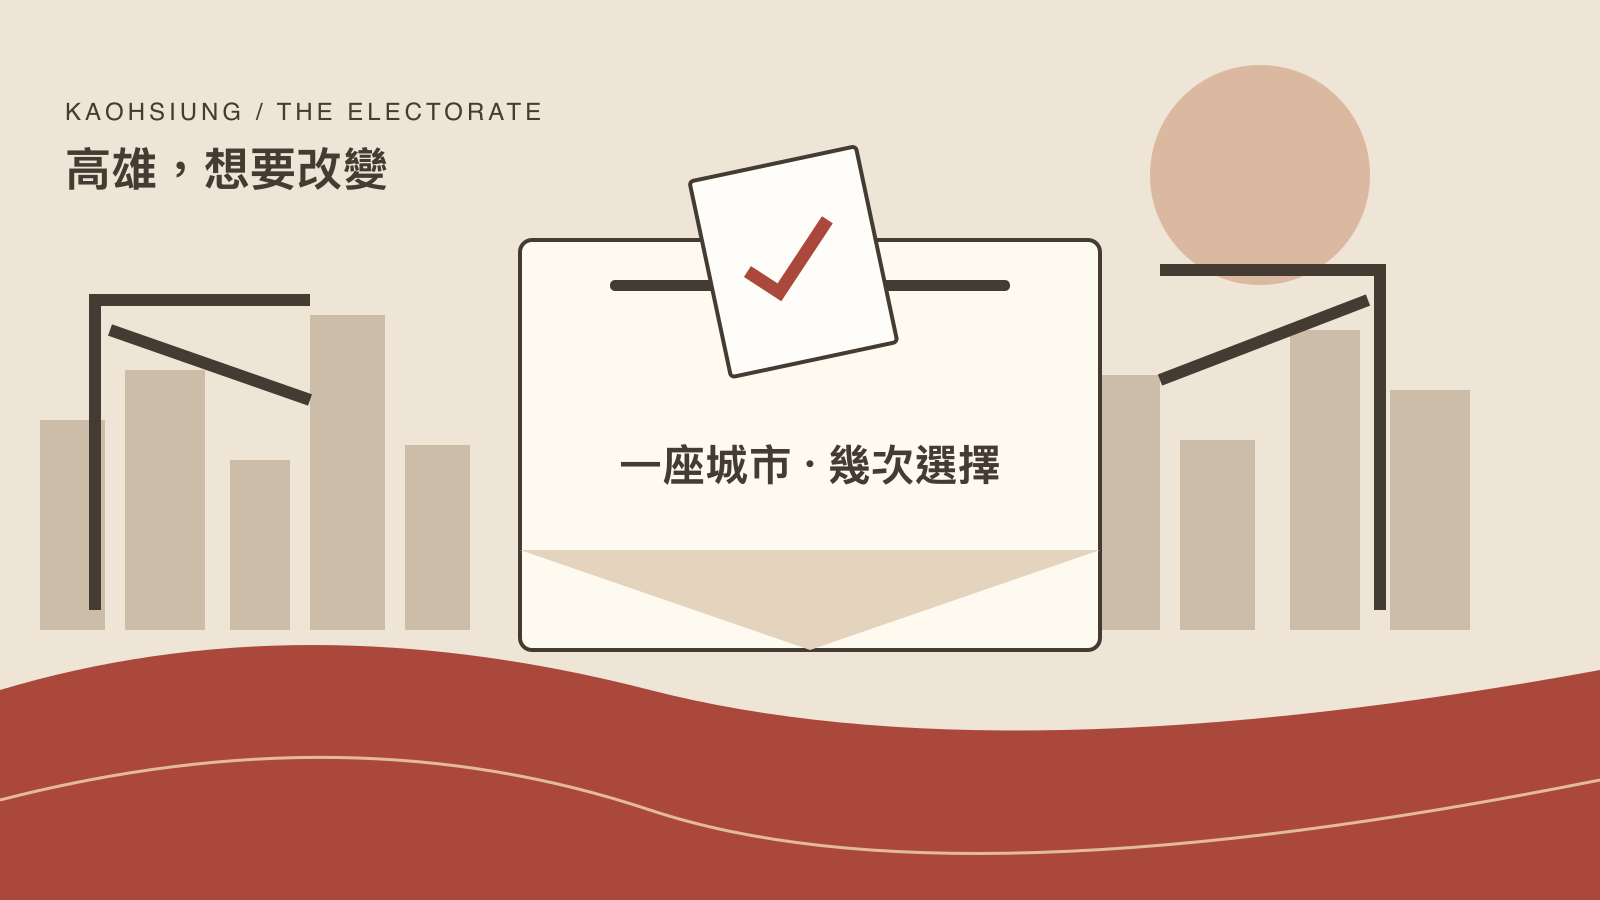
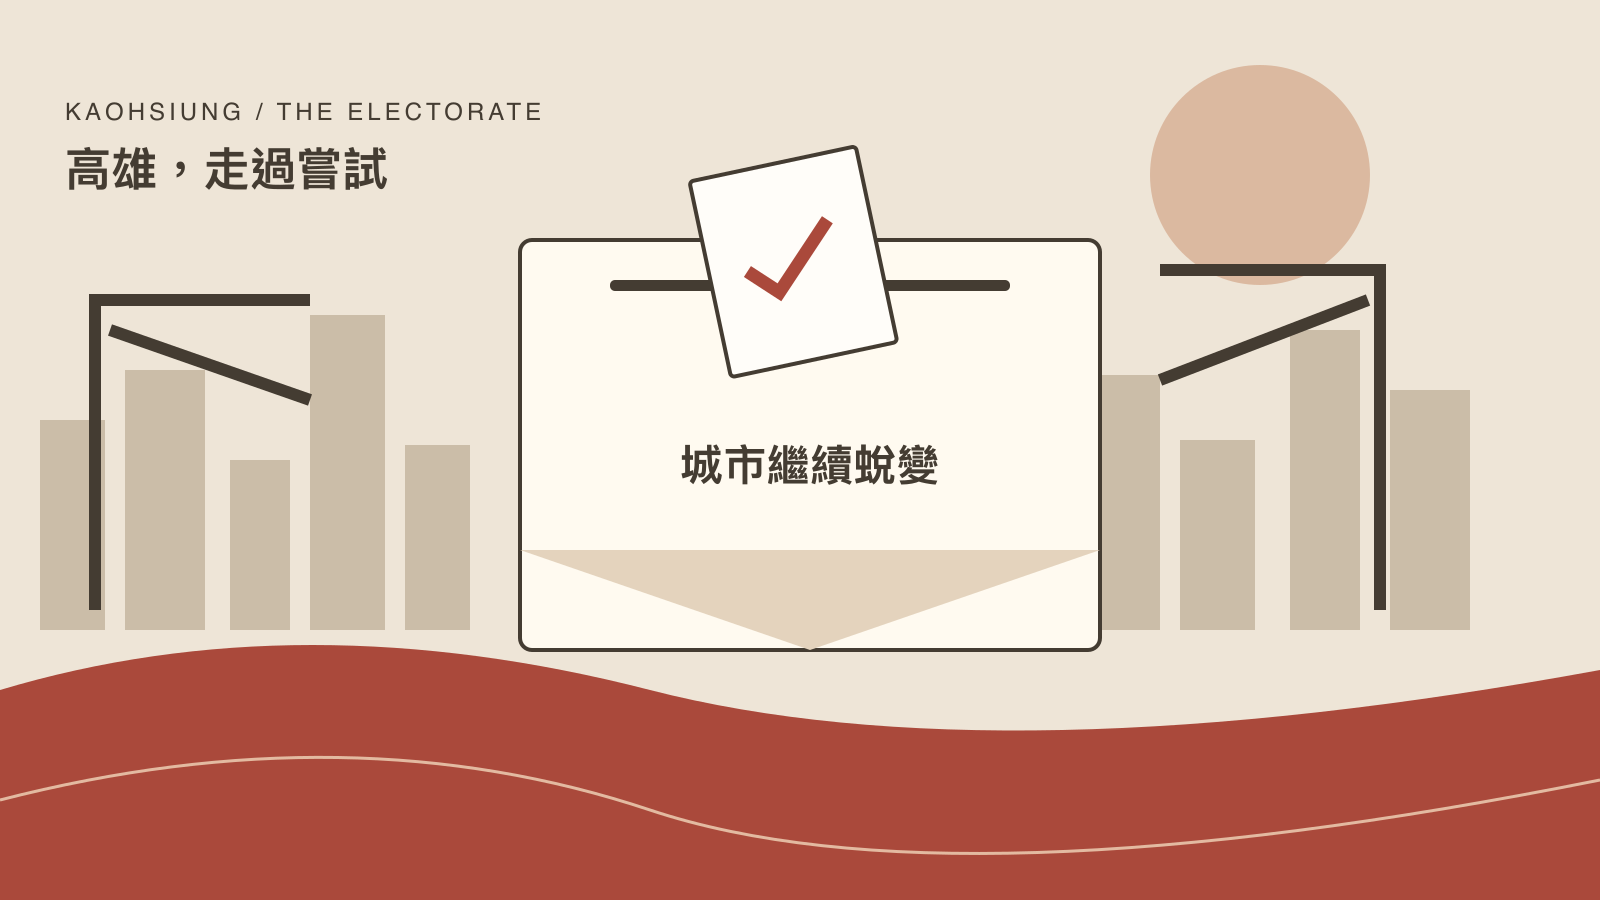
Refine Kaohsiung headline and cover around past choices

Changed region(s): [[0.375, 0.4978, 0.625, 0.56], [0.125, 0.1556, 0.25, 0.2178]]

diff --git a/kaohsiung-electorate.html b/kaohsiung-electorate.html
@@ -1,19 +1,19 @@
 <!doctype html>
 <html lang="zh-Hant"><head>
 <meta charset="utf-8"><meta name="viewport" content="width=device-width,initial-scale=1">
-<title>高雄｜想要改變的城市，選票怎麼走？｜Cocoa.Cool</title>
-<meta name="description" content="高雄曾選擇換人做做看，也曾投票讓市長提前離開。從38區的歷次選票，看一座城市如何在市長、總統與罷免之間，尋找自己的方向。">
+<title>高雄｜走過嘗試，城市繼續蛻變｜Cocoa.Cool</title>
+<meta name="description" content="高雄曾嘗試不同的政治選擇，經歷罷免與重新選舉後，再由民進黨執政。從38區的歷次選票，回看這座城市走過的轉折。">
 <meta name="robots" content="index,follow"><link rel="canonical" href="https://www.thecocoa.cool/kaohsiung-electorate.html">
 <meta property="og:type" content="article"><meta property="og:locale" content="zh_TW"><meta property="og:site_name" content="Cocoa.Cool">
-<meta property="og:title" content="高雄｜想要改變的城市，選票怎麼走？｜Cocoa.Cool"><meta property="og:description" content="高雄曾選擇換人做做看，也曾投票讓市長提前離開。從38區的歷次選票，看一座城市如何在市長、總統與罷免之間，尋找自己的方向。"><meta property="og:url" content="https://www.thecocoa.cool/kaohsiung-electorate.html"><meta property="og:image" content="https://www.thecocoa.cool/assets/kaohsiung-electorate-cover.png?v=822b7fcd83"><meta property="og:image:width" content="1600"><meta property="og:image:height" content="900"><meta property="og:image:alt" content="暖米白與磚紅的高雄港灣選票概念圖">
-<meta name="twitter:card" content="summary_large_image"><meta name="twitter:title" content="高雄｜想要改變的城市，選票怎麼走？｜Cocoa.Cool"><meta name="twitter:description" content="高雄曾選擇換人做做看，也曾投票讓市長提前離開。從38區的歷次選票，看一座城市如何在市長、總統與罷免之間，尋找自己的方向。"><meta name="twitter:image" content="https://www.thecocoa.cool/assets/kaohsiung-electorate-cover.png?v=822b7fcd83">
-<script type="application/ld+json">{"@context":"https://schema.org","@type":"Article","headline":"高雄｜想要改變的城市，選票怎麼走？","description":"高雄曾選擇換人做做看，也曾投票讓市長提前離開。從38區的歷次選票，看一座城市如何在市長、總統與罷免之間，尋找自己的方向。","url":"https://www.thecocoa.cool/kaohsiung-electorate.html","mainEntityOfPage":"https://www.thecocoa.cool/kaohsiung-electorate.html","image":"https://www.thecocoa.cool/assets/kaohsiung-electorate-cover.png?v=822b7fcd83","inLanguage":"zh-Hant-TW","datePublished":"2026-10-02","dateModified":"2026-10-05","publisher":{"@type":"Organization","name":"Cocoa.Cool","url":"https://www.thecocoa.cool/"}}</script>
+<meta property="og:title" content="高雄｜走過嘗試，城市繼續蛻變｜Cocoa.Cool"><meta property="og:description" content="高雄曾嘗試不同的政治選擇，經歷罷免與重新選舉後，再由民進黨執政。從38區的歷次選票，回看這座城市走過的轉折。"><meta property="og:url" content="https://www.thecocoa.cool/kaohsiung-electorate.html"><meta property="og:image" content="https://www.thecocoa.cool/assets/kaohsiung-electorate-cover.png?v=830461caad"><meta property="og:image:width" content="1600"><meta property="og:image:height" content="900"><meta property="og:image:alt" content="暖米白與磚紅的高雄港灣選票概念圖">
+<meta name="twitter:card" content="summary_large_image"><meta name="twitter:title" content="高雄｜走過嘗試，城市繼續蛻變｜Cocoa.Cool"><meta name="twitter:description" content="高雄曾嘗試不同的政治選擇，經歷罷免與重新選舉後，再由民進黨執政。從38區的歷次選票，回看這座城市走過的轉折。"><meta name="twitter:image" content="https://www.thecocoa.cool/assets/kaohsiung-electorate-cover.png?v=830461caad">
+<script type="application/ld+json">{"@context":"https://schema.org","@type":"Article","headline":"高雄｜走過嘗試，城市繼續蛻變","description":"高雄曾嘗試不同的政治選擇，經歷罷免與重新選舉後，再由民進黨執政。從38區的歷次選票，回看這座城市走過的轉折。","url":"https://www.thecocoa.cool/kaohsiung-electorate.html","mainEntityOfPage":"https://www.thecocoa.cool/kaohsiung-electorate.html","image":"https://www.thecocoa.cool/assets/kaohsiung-electorate-cover.png?v=830461caad","inLanguage":"zh-Hant-TW","datePublished":"2026-10-02","dateModified":"2026-10-05","publisher":{"@type":"Organization","name":"Cocoa.Cool","url":"https://www.thecocoa.cool/"}}</script>
 <link rel="stylesheet" href="kaohsiung-electorate.css?v=20261004"><script src="analytics.js" defer></script><script type="module" src="kaohsiung-electorate.js"></script>
 </head><body>
 <nav><a href="index.html">Cocoa.Cool ↗</a><span>資料互動專題 / 2026.10.02</span></nav>
-<main><header class="hero"><p class="eyebrow">KAOHSIUNG / A CITY LOOKING FOR CHANGE</p><h1>高雄｜想要改變的城市，<br><span>選票怎麼走？</span></h1>
-<figure class="electorate-cover"><img src="assets/kaohsiung-electorate-cover.svg?v=822b7fcd83" width="1600" height="900" alt="暖米白與磚紅的高雄港灣概念插畫" fetchpriority="high"><figcaption>一座城市，幾次選擇｜概念插畫，非實際選票比例。</figcaption></figure>
-<div class="intro"><p>換一個人，城市會不會更好？<br>高雄曾經試過，也重新選過。</p><p>2018 年，韓國瑜在高雄當選市長。不到兩年，市民又透過罷免，讓他提前離開。這段經歷讓「高雄是綠營票倉」變得不夠用了：一座城市可以選擇換人，也可以決定再換一次。把這幾年的選票攤開來看，我們想追問的是，高雄選民願意嘗試什麼樣的改變，而各個地方，是否有不同的答案？</p></div>
+<main><header class="hero"><p class="eyebrow">KAOHSIUNG / THROUGH CHANGE AND CHOICE</p><h1>高雄｜走過嘗試，<br><span>城市繼續蛻變</span></h1>
+<figure class="electorate-cover"><img src="assets/kaohsiung-electorate-cover.svg?v=830461caad" width="1600" height="900" alt="暖米白與磚紅的高雄港灣概念插畫" fetchpriority="high"><figcaption>一座城市，幾次選擇｜概念插畫，非實際選票比例。</figcaption></figure>
+<div class="intro"><p>高雄曾經選擇另一種可能，<br>也在經歷之後，重新決定方向。</p><p>2018 年，韓國瑜在高雄當選市長。不到兩年，市民又透過罷免，讓他提前離開。這段經歷讓「高雄是綠營票倉」變得不夠用了：一座城市可以選擇換人，也可以決定再換一次。罷免之後，陳其邁在補選當選，並於 2022 年連任，市政重新由民進黨接手。把這幾年的選票攤開來看，我們回顧的是高雄已經走過的嘗試與轉折，以及各區如何在這段歷程中，重新決定方向。</p></div>
 <p class="notice">從 2010 年縣市合併後看起，共 9 次選舉，另加 2020 年罷免的全市結果。2024 年分區資料仍待修正，這一年先看全市。資料來源與比較限制放在文末。</p></header>
 <div class="chapter-nav"><a href="#history">01 歷次選擇</a><a href="#geography">02 地區走向</a><a href="#participation">03 重新選擇</a><a href="#sources">資料與方法</a></div><p id="load-status" role="status">正在載入高雄選舉資料…</p>
 <section id="history"><p class="eyebrow">01 / DIFFERENT QUESTIONS, DIFFERENT ANSWERS</p><h2>市長換了人，<br>總統票沒有跟著走。</h2><p class="lead">2014 年，陳菊拿下近七成選票。四年後，韓國瑜以 53.87% 勝出；再到 2020 年總統大選，蔡英文卻在高雄拿到 62.23%。短短幾年，選票的重心移動了不只一次。選市長時願意讓國民黨試一試，選總統時又由民進黨取得多數——高雄的政治選擇，比一個「藍」或「綠」的標籤更豐富。</p>

diff --git a/index.html b/index.html
@@ -12,7 +12,7 @@
     <style>.childcase .art{background:#f1d448}.safety-grid{position:absolute;right:10%;top:49px;display:grid;grid-template-columns:repeat(2,75px);gap:7px}.safety-grid i{display:grid;place-items:center;width:75px;height:64px;border:2px solid var(--ink);background:#fff;font:700 12px "Noto Sans TC",sans-serif;font-style:normal}.safety-grid i:nth-child(2){background:#b9aaee}.safety-grid i:nth-child(3){background:#82b2ed}.safety-grid i:nth-child(4){background:#3155aa;color:#fff}@media(max-width:720px){.safety-grid{right:5%;transform:scale(.8);transform-origin:top right}}</style>
     <link rel="stylesheet" href="logo.css" /><link rel="stylesheet" href="taipei-cover-card.css" />
     <script src="analytics.js" defer></script>
-    <script src="site-seo.js?v=468c8050a8" defer></script>
+    <script src="site-seo.js?v=3c7c9fab27" defer></script>
   </head>
   <body>
     <nav class="nav wrap" aria-label="主選單"><a class="logo" href="#top" aria-label="Cocoa.Cool 首頁"><span class="logo-cocoa"><i>C</i><i>o</i><i>c</i><i>o</i><i>a</i></span><span class="logo-dot">.</span><span class="logo-cool"><i>C</i><i>o</i><i>o</i><i>l</i></span></a><a class="nav-link" href="#stories">專題索引 ↓</a></nav>
@@ -25,7 +25,7 @@
       <section class="stories wrap" id="stories" aria-labelledby="stories-title">
         <div class="stories-head"><div><p class="section-label">10 個進行中的專題</p><h2 id="stories-title">選一種理解問題的方式</h2></div><p class="collection-count">所有判斷均附可回查來源</p></div>
         <div class="story-grid">
-          <article class="story electorate story-wide"><a href="kaohsiung-electorate.html"><div class="art electorate-art"><img src="assets/kaohsiung-electorate-cover.svg?v=822b7fcd83" alt="暖米白與磚紅的高雄港灣概念插畫" width="1600" height="900" loading="lazy"><span class="issue">高雄選舉／資料探索</span></div><div class="story-copy"><div class="story-meta"><span>KAOHSIUNG ELECTORATE</span><span>最新・研究版</span></div><h3>高雄｜想要改變的城市，選票怎麼走？</h3><p>從換人做做看，到罷免後再選一次。看看38區的選票，如何走出不同的方向。</p></div></a></article>
+          <article class="story electorate story-wide"><a href="kaohsiung-electorate.html"><div class="art electorate-art"><img src="assets/kaohsiung-electorate-cover.svg?v=830461caad" alt="暖米白與磚紅的高雄港灣概念插畫" width="1600" height="900" loading="lazy"><span class="issue">高雄選舉／資料探索</span></div><div class="story-copy"><div class="story-meta"><span>KAOHSIUNG ELECTORATE</span><span>最新・研究版</span></div><h3>高雄｜走過嘗試，城市繼續蛻變</h3><p>從嘗試不同的選擇，到罷免、再選與連任。回看高雄38區走過的政治轉折。</p></div></a></article>
           <article class="story electorate new-taipei story-wide"><a href="new-taipei-electorate.html"><div class="art electorate-art"><img src="assets/new-taipei-electorate-cover.png?v=b538692cb0" alt="新北市輪廓與黃色選票探索示意圖" width="1600" height="900" loading="lazy"><span class="issue">新北選舉／資料探索</span></div><div class="story-copy"><div class="story-meta"><span>NEW TAIPEI ELECTORATE</span><span>最新・研究版</span></div><h3>新北｜藍營長期執政，選民結構怎麼看</h3><p>首長連勝，總統選票卻有不同方向。從 29 區的歷次選擇，探索選民的政治期待。</p></div></a></article>
           <article class="story electorate story-wide"><a href="taipei-electorate.html"><div class="art electorate-art"><img src="assets/taipei-electorate-cover.png" alt="台北城市與投票箱的橘色概念插畫" width="1672" height="941" loading="lazy"><span class="issue">台北選舉／資料探索</span></div><div class="story-copy"><div class="story-meta"><span>TAIPEI ELECTORATE</span><span>最新・研究版</span></div><h3>台北，真的藍大於綠嗎？</h3><p>探索三十年總統與市長選票，對照各區里的投票率與得票變化。</p></div></a></article>
           <article class="story childcase story-wide"><a href="taipei-child-protection-case.html"><div class="art"><span class="issue">兒少保護／決策紀錄</span><div class="safety-grid"><i>通報</i><i>評估</i><i>計畫</i><i>重評</i></div><p class="art-title">240 天裡<br>誰做了決定？</p></div><div class="story-copy"><div class="story-meta"><span>CHILD PROTECTION RECORD</span><span>兒少保護</span></div><h3>十歲女童兒少保護爭議</h3><p>以通報、風險評估與安置決策，逐一對照市府說明與外界質疑。</p></div></a></article>

diff --git a/site-seo.js b/site-seo.js
@@ -2,7 +2,7 @@
   const site = 'https://cocoa.cool';
   const fallbackImage = `${site}/assets/cocoa-cool-og.png`;
   const pages = {
-    'kaohsiung-electorate.html': ['高雄｜想要改變的城市，選票怎麼走？｜Cocoa.Cool', '高雄曾選擇換人做做看，也曾投票讓市長提前離開。從38區的歷次選票，看一座城市如何在市長、總統與罷免之間，尋找自己的方向。', 'article', 'https://www.thecocoa.cool/assets/kaohsiung-electorate-cover.png?v=822b7fcd83'],
+    'kaohsiung-electorate.html': ['高雄｜走過嘗試，城市繼續蛻變｜Cocoa.Cool', '高雄曾嘗試不同的政治選擇，經歷罷免與重新選舉後，再由民進黨執政。從38區的歷次選票，回看這座城市走過的轉折。', 'article', 'https://www.thecocoa.cool/assets/kaohsiung-electorate-cover.png?v=830461caad'],
     'new-taipei-electorate.html': ['新北｜藍營長期執政，選民結構怎麼看｜Cocoa.Cool', '新北藍營長期執政，選民的政治期待卻只有一種嗎？以 13 次選舉、29 區與各里資料，比較首長與總統選票、投票率及選民尋找不同政治方向的線索。', 'article', 'https://www.thecocoa.cool/assets/new-taipei-electorate-cover.png?v=b538692cb0'],
     'taipei-electorate.html': ['台北，真的藍大於綠嗎？｜Cocoa.Cool', '探索台北三十年總統與市長選票、行政區與里差異，以及歷年投票率與得票結果。', 'article', `${site}/assets/taipei-electorate-cover.png`],
     'index.html': ['Cocoa.Cool｜互動新聞策展', '從現有新聞出發，以名單、席位、批號、證據與預算等資料結構重新閱讀議題。', 'website'],
